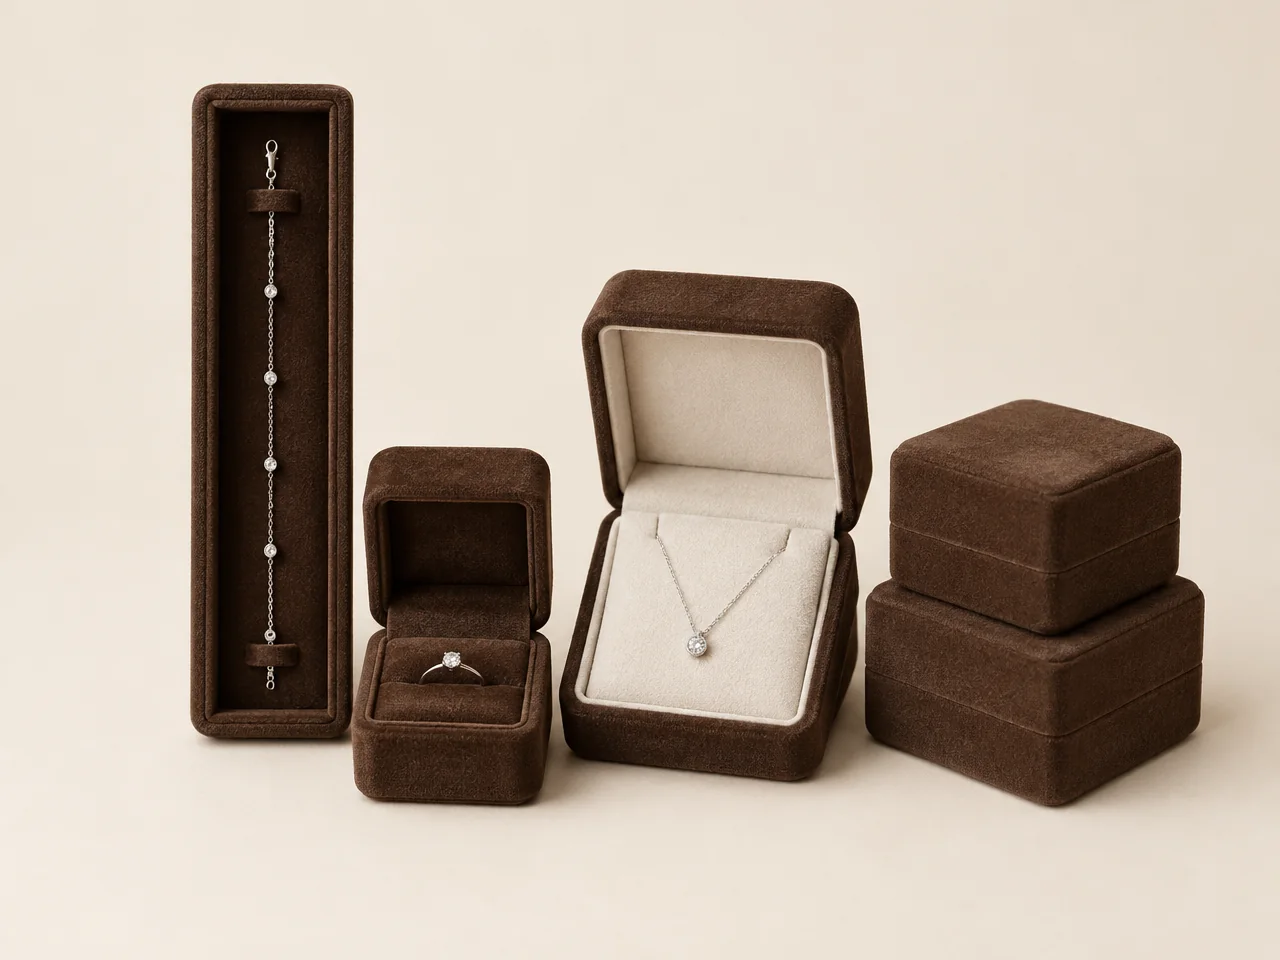
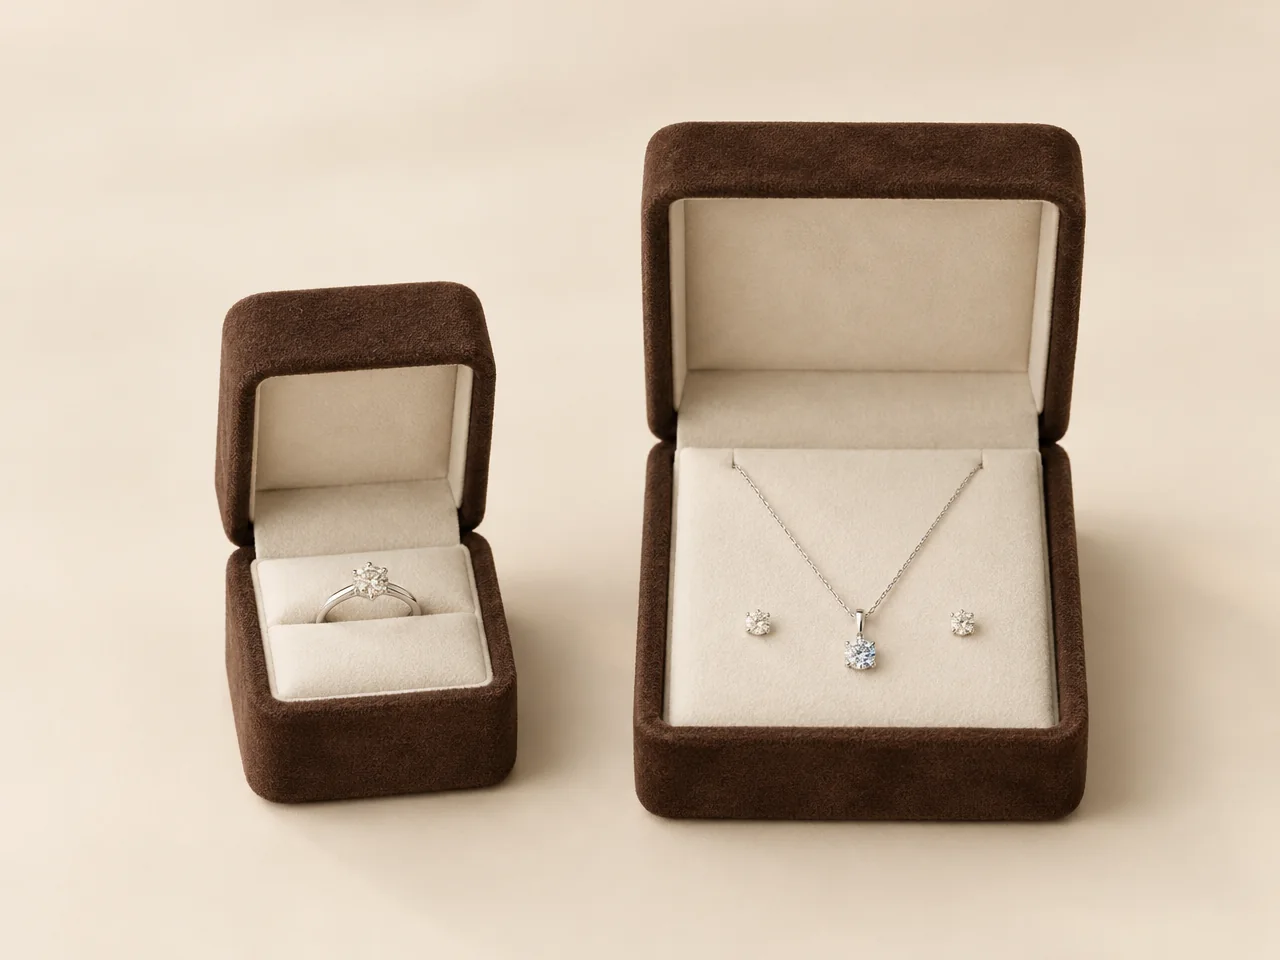
Carvieal: dois estojos de presente (anel; brincos, colares e pulseiras), com o modelo certo por peça e escolha no carrinho
Claude-Session: https://claude.ai/code/session_01XftsDHsx5FxPGT54fY2VHM

diff --git a/app/(loja)/presente/page.tsx b/app/(loja)/presente/page.tsx
@@ -2,41 +2,61 @@ import type { Metadata } from "next";
 import Link from "next/link";
 import Foto from "@/components/Foto";
 import BotaoEstojo from "@/components/BotaoEstojo";
-import { obterEstojo, estojoInfo } from "@/lib/presente";
+import { obterEstojos } from "@/lib/presente";
 import { kz } from "@/lib/formato";
 
 export const revalidate = 60;
 
 export const metadata: Metadata = {
   title: "Embalagem Especial para Presente",
-  description: "Estojo Carvieal para oferecer a tua peça em prata 925. Opção facultativa, adicionada à encomenda.",
+  description: "Estojos Carvieal para oferecer a tua peça em prata 925: um para anéis e outro para brincos, colares e pulseiras.",
   alternates: { canonical: "/presente" },
 };
 
 export default async function Presente() {
-  const e = await obterEstojo();
-  const info = estojoInfo(e);
+  const { anel, joias } = await obterEstojos();
+  const modelos = [
+    { e: anel, titulo: "Estojo para anel", texto: "Com encaixe acolchoado para um anel.", img: "/img/estojo-anel.webp" },
+    { e: joias, titulo: "Estojo para brincos, colares e pulseiras", texto: "Serve para brincos, colares e pulseiras.", img: "/img/estojo-joias.webp" },
+  ];
   return (
-    <div className="caixa grid gap-10 pb-24 pt-8 sm:pt-14 md:grid-cols-2 md:items-center md:gap-16">
-      <div className="relative aspect-[4/3] overflow-hidden bg-avela-pale">
-        <Foto src={info?.imagem || "/img/estojo.webp"} alt="Estojos Carvieal para presente" sizes="(min-width: 768px) 50vw, 100vw" priority />
-      </div>
-      <div className="max-w-md">
-        <h1 className="titulo text-[36px] sm:text-[48px]">Embalagem Especial para Presente</h1>
-        <div className="mt-6 space-y-4 text-[15px] leading-relaxed text-tinta/75">
-          <p>Para os momentos em que a peça é para alguém especial, podes juntar à encomenda um estojo em camurça, pensado para oferecer.</p>
-          <p>É uma opção facultativa: todas as encomendas continuam a ser enviadas na embalagem normal da Carvieal.</p>
-          <p>Podes escolher o estojo na página de cada peça, antes de a adicionares ao carrinho, ou diretamente no carrinho.</p>
+    <div className="pb-24">
+      <section className="caixa grid gap-10 pt-8 sm:pt-14 md:grid-cols-2 md:items-center md:gap-16">
+        <div className="relative aspect-[4/3] overflow-hidden bg-avela-pale">
+          <Foto src="/img/estojo.webp" alt="Estojos Carvieal para presente" sizes="(min-width: 768px) 50vw, 100vw" priority />
         </div>
-        {info ? (
-          <>
-            <p className="mt-8 font-display text-[28px] text-choco">+ {kz(info.preco)} <span className="text-[15px] text-tinta/55">por estojo</span></p>
-            <BotaoEstojo estojo={info} />
-          </>
-        ) : (
-          <p className="mt-8 text-[15px] text-tinta/60">De momento, os estojos para presente estão esgotados.</p>
-        )}
-        <Link href="/loja" className="link mt-6 inline-block text-[14px] text-choco">Descobrir a coleção</Link>
+        <div className="max-w-md">
+          <h1 className="titulo text-[36px] sm:text-[48px]">Embalagem Especial para Presente</h1>
+          <div className="mt-6 space-y-4 text-[15px] leading-relaxed text-tinta/75">
+            <p>Para os momentos em que a peça é para alguém especial, podes juntar à encomenda um estojo em camurça, pensado para oferecer.</p>
+            <p>É uma opção facultativa: todas as encomendas continuam a ser enviadas na embalagem normal da Carvieal.</p>
+            <p>Podes escolher o estojo na página de cada peça, antes de a adicionares ao carrinho, ou diretamente no carrinho.</p>
+          </div>
+        </div>
+      </section>
+
+      <section className="caixa mt-16 grid gap-10 sm:grid-cols-2 sm:gap-6 lg:max-w-4xl">
+        {modelos.map((m) => (
+          <div key={m.titulo}>
+            <div className="relative aspect-square overflow-hidden bg-avela-pale">
+              <Foto src={m.e?.imagem || m.img} alt={m.titulo} sizes="(min-width: 640px) 40vw, 100vw" />
+            </div>
+            <h2 className="mt-5 text-[15px] font-medium uppercase tracking-[.14em] text-tinta">{m.titulo}</h2>
+            <p className="mt-1 text-[14px] text-tinta/60">{m.texto}</p>
+            {m.e ? (
+              <>
+                <p className="mt-3 text-[16px] text-tinta">+ {kz(m.e.preco)}</p>
+                <BotaoEstojo estojo={m.e} />
+              </>
+            ) : (
+              <p className="mt-3 text-[14px] text-tinta/55">Esgotado de momento.</p>
+            )}
+          </div>
+        ))}
+      </section>
+
+      <div className="caixa mt-12">
+        <Link href="/loja" className="link text-[14px] text-choco">Descobrir a coleção</Link>
       </div>
     </div>
   );

diff --git a/components/CarrinhoGaveta.tsx b/components/CarrinhoGaveta.tsx
@@ -4,12 +4,13 @@ import { Minus, Plus, X } from "lucide-react";
 import { useCarrinho } from "@/lib/carrinho";
 import { kz } from "@/lib/formato";
 import Foto from "./Foto";
-import type { EstojoInfo } from "@/lib/presente";
+import type { Estojos } from "@/lib/presente";
+import SugestaoEstojo from "./SugestaoEstojo";
 
-export default function CarrinhoGaveta({ gratisAcima = 0, estojo = null }: { gratisAcima?: number; estojo?: EstojoInfo }) {
-  const { itens, aberto, fechar, mudarQtd, remover, subtotal, adicionar } = useCarrinho();
+export default function CarrinhoGaveta({ gratisAcima = 0, estojos = { anel: null, joias: null } }: { gratisAcima?: number; estojos?: Estojos }) {
+  const { itens, aberto, fechar, mudarQtd, remover, subtotal } = useCarrinho();
   if (!aberto) return null;
-  const sugerirEstojo = estojo && !itens.some((i) => i.produtoId === estojo.id);
+  const temEstojo = itens.some((i) => i.slug.startsWith("estojo-"));
 
   return (
     <div className="fixed inset-0 z-50" role="dialog" aria-modal="true" aria-label="Carrinho">
@@ -54,17 +55,7 @@ export default function CarrinhoGaveta({ gratisAcima = 0, estojo = null }: { gra
                 </li>
               ))}
             </ul>
-            {sugerirEstojo && (
-              <div className="mx-5 mb-4 flex items-center gap-3 border border-choco/15 bg-white p-3 sm:mx-7">
-                <span className="relative h-14 w-14 shrink-0 overflow-hidden bg-avela-pale"><Foto src={estojo.imagem} alt="" sizes="56px" /></span>
-                <div className="min-w-0 flex-1">
-                  <p className="text-[14px] leading-snug text-tinta">Vai oferecer? Adicionar estojo para presente</p>
-                  <p className="text-[13px] text-tinta/55">+ {kz(estojo.preco)}</p>
-                </div>
-                <button type="button" onClick={() => adicionar({ produtoId: estojo.id, slug: estojo.slug, nome: estojo.nome, imagem: estojo.imagem, preco: estojo.preco, opcoes: {}, stock: estojo.stock })}
-                  className="shrink-0 border border-choco px-3 py-2 text-[12px] font-medium uppercase tracking-[.12em] text-choco hover:bg-choco hover:text-marfim-claro">Adicionar</button>
-              </div>
-            )}
+            {!temEstojo && (estojos.anel || estojos.joias) && <SugestaoEstojo estojos={estojos} temAnel={itens.some((i) => /anel|anéis|aneis/i.test(i.nome + i.slug))} />}
             <div className="border-t border-choco/10 px-5 pb-[max(1.25rem,env(safe-area-inset-bottom))] pt-5 sm:px-7">
               <div className="flex items-baseline justify-between">
                 <span className="text-[15px]">Subtotal</span>

diff --git a/components/SugestaoEstojo.tsx b/components/SugestaoEstojo.tsx
@@ -1,0 +1,42 @@
+"use client";
+import { useState } from "react";
+import { useCarrinho } from "@/lib/carrinho";
+import { kz } from "@/lib/formato";
+import type { Estojos } from "@/lib/presente";
+import Foto from "./Foto";
+
+// No carrinho: «Vai oferecer?» com a escolha entre os dois estojos.
+export default function SugestaoEstojo({ estojos, temAnel }: { estojos: Estojos; temAnel: boolean }) {
+  const { adicionar } = useCarrinho();
+  const opcoes = [
+    estojos.anel && { chave: "anel", rotulo: "Anel", e: estojos.anel },
+    estojos.joias && { chave: "joias", rotulo: "Brincos, colares, pulseiras", e: estojos.joias },
+  ].filter(Boolean) as { chave: string; rotulo: string; e: NonNullable<Estojos["anel"]> }[];
+  const [esc, setEsc] = useState(temAnel && estojos.anel ? "anel" : opcoes[opcoes.length - 1].chave);
+  const atual = opcoes.find((o) => o.chave === esc) ?? opcoes[0];
+  const e = atual.e;
+
+  return (
+    <div className="mx-5 mb-4 border border-choco/15 bg-white p-3 sm:mx-7">
+      <div className="flex items-center gap-3">
+        <span className="relative h-14 w-14 shrink-0 overflow-hidden bg-avela-pale"><Foto src={e.imagem} alt="" sizes="56px" /></span>
+        <div className="min-w-0 flex-1">
+          <p className="text-[14px] leading-snug text-tinta">Vai oferecer? Adicionar estojo para presente</p>
+          <p className="text-[13px] text-tinta/55">+ {kz(e.preco)}</p>
+        </div>
+        <button type="button" onClick={() => adicionar({ produtoId: e.id, slug: e.slug, nome: e.nome, imagem: e.imagem, preco: e.preco, opcoes: {}, stock: e.stock })}
+          className="shrink-0 border border-choco px-3 py-2 text-[12px] font-medium uppercase tracking-[.12em] text-choco hover:bg-choco hover:text-marfim-claro">Adicionar</button>
+      </div>
+      {opcoes.length > 1 && (
+        <div className="mt-3 grid grid-cols-2 gap-1.5" role="radiogroup" aria-label="Modelo do estojo">
+          {opcoes.map((o) => (
+            <button key={o.chave} type="button" role="radio" aria-checked={esc === o.chave} onClick={() => setEsc(o.chave)}
+              className={`border px-2 py-2 text-[12px] leading-tight transition-colors ${esc === o.chave ? "border-choco bg-choco text-marfim-claro" : "border-choco/20 text-tinta/70"}`}>
+              {o.rotulo}
+            </button>
+          ))}
+        </div>
+      )}
+    </div>
+  );
+}

diff --git a/lib/presente.ts b/lib/presente.ts
@@ -1,19 +1,27 @@
-// Embalagem especial para presente (estojo). É um produto normal da loja com o slug
-// abaixo: o preço, a foto e o stock mudam-se no painel, em Produtos.
-// Não aparece no catálogo; é oferecido na página de cada peça, no carrinho e em /presente.
+// Embalagem especial para presente: dois estojos, cada um é um produto normal da loja
+// (slugs abaixo). Preço, foto e stock mudam-se no painel, em Produtos.
+// Não aparecem no catálogo; são oferecidos na página de cada peça, no carrinho e em /presente.
 import { obterProduto } from "./loja";
 import type { Produto } from "./tipos";
 
-export const ESTOJO_SLUG = "estojo-presente";
+export const ESTOJO_ANEL = "estojo-anel"; // para anéis
+export const ESTOJO_JOIAS = "estojo-joias"; // para brincos, colares e pulseiras
+export const SLUGS_ESTOJO = [ESTOJO_ANEL, ESTOJO_JOIAS];
 
-export async function obterEstojo(): Promise<Produto | null> {
-  const p = await obterProduto(ESTOJO_SLUG);
-  return p && p.stock > 0 ? p : null;
+/** Dados mínimos de um estojo que os componentes do navegador precisam. */
+export type EstojoInfo = { id: string; slug: string; nome: string; preco: number; imagem: string; stock: number } | null;
+export type Estojos = { anel: EstojoInfo; joias: EstojoInfo };
+
+function info(p: Produto | null, img: string): EstojoInfo {
+  return p && p.stock > 0 ? { id: p.id, slug: p.slug, nome: p.nome, preco: p.preco, imagem: p.imagens[0] || img, stock: p.stock } : null;
 }
 
-/** Dados mínimos do estojo que os componentes do navegador precisam. */
-export type EstojoInfo = { id: string; slug: string; nome: string; preco: number; imagem: string; stock: number } | null;
+export async function obterEstojos(): Promise<Estojos> {
+  const [a, j] = await Promise.all([obterProduto(ESTOJO_ANEL), obterProduto(ESTOJO_JOIAS)]);
+  return { anel: info(a, "/img/estojo-anel.webp"), joias: info(j, "/img/estojo-joias.webp") };
+}
 
-export function estojoInfo(p: Produto | null): EstojoInfo {
-  return p ? { id: p.id, slug: p.slug, nome: p.nome, preco: p.preco, imagem: p.imagens[0] || "/img/estojo.webp", stock: p.stock } : null;
+/** Estojo certo para uma peça: anéis → estojo de anel; o resto → estojo de joias. */
+export function estojoPara(categoriaSlug: string | undefined, e: Estojos): EstojoInfo {
+  return categoriaSlug === "aneis" ? e.anel : e.joias;
 }

diff --git a/app/(loja)/produto/[slug]/page.tsx b/app/(loja)/produto/[slug]/page.tsx
@@ -1,7 +1,7 @@
 import type { Metadata } from "next";
 import Link from "next/link";
 import { notFound, redirect } from "next/navigation";
-import { ESTOJO_SLUG, obterEstojo, estojoInfo } from "@/lib/presente";
+import { SLUGS_ESTOJO, obterEstojos, estojoPara } from "@/lib/presente";
 import { listarCategorias, listarProdutos, obterProduto } from "@/lib/loja";
 import { obterConteudo } from "@/lib/conteudo";
 import { kz } from "@/lib/formato";
@@ -31,9 +31,9 @@ export async function generateMetadata({ params }: Props): Promise<Metadata> {
 
 export default async function PaginaProduto({ params }: Props) {
   const p = await obterProduto(params.slug);
-  if (params.slug === ESTOJO_SLUG) redirect("/presente");
+  if (SLUGS_ESTOJO.includes(params.slug)) redirect("/presente");
   if (!p) notFound();
-  const [categorias, c, avaliacoes, estojo] = await Promise.all([listarCategorias(), obterConteudo(), avaliacoesPublicas(p.id), obterEstojo()]);
+  const [categorias, c, avaliacoes, estojo] = await Promise.all([listarCategorias(), obterConteudo(), avaliacoesPublicas(p.id), obterEstojos()]);
   const cat = categorias.find((k) => k.id === p.categoria_id);
   const relacionados = (await listarProdutos({ categoriaId: p.categoria_id ?? undefined, limite: 5 })).filter((x) => x.id !== p.id).slice(0, 4);
   const detalhes = p.detalhes.split("\n").map((l) => l.trim()).filter(Boolean);
@@ -77,7 +77,7 @@ export default async function PaginaProduto({ params }: Props) {
               {kz(p.preco)}
             </p>
             {p.descricao && <p className="mt-5 max-w-prose text-[15px] leading-relaxed text-tinta/75">{p.descricao}</p>}
-            <Comprar p={p} estojo={estojoInfo(estojo)} />
+            <Comprar p={p} estojo={estojoPara(cat?.slug, estojo)} />
             <div className="mt-10 divide-y divide-choco/15 border-y border-choco/15">
               {blocos.map(([t, conteudo], i) => (
                 <details key={t} className="group py-4" open={i === 0}>

diff --git a/components/OpcaoEstojo.tsx b/components/OpcaoEstojo.tsx
@@ -11,10 +11,10 @@ export default function OpcaoEstojo({ estojo, marcado, mudar }: { estojo: NonNul
     <label className={`flex cursor-pointer items-center gap-4 border p-3 pr-4 transition-colors ${marcado ? "border-choco bg-avela-pale/50" : "border-choco/20 hover:border-choco/50"}`}>
       <input type="checkbox" className="peer sr-only" checked={marcado} onChange={(e) => mudar(e.target.checked)} />
       <span className="relative h-16 w-16 shrink-0 overflow-hidden bg-avela-pale">
-        <Image src={estojo.imagem} alt="Estojo para presente Carvieal" fill sizes="64px" className="object-cover" />
+        <Image src={estojo.imagem} alt={estojo.nome} fill sizes="64px" className="object-cover" />
       </span>
       <span className="min-w-0 flex-1">
-        <span className="block text-[14px] text-tinta">Adicionar estojo para presente</span>
+        <span className="block text-[14px] text-tinta">Adicionar {estojo.nome.charAt(0).toLowerCase() + estojo.nome.slice(1)}</span>
         <span className="mt-0.5 block text-[13px] text-tinta/60">+ {kz(estojo.preco)} · <Link href="/presente" className="link" onClick={(e) => e.stopPropagation()}>ver estojo</Link></span>
       </span>
       <span aria-hidden className={`grid h-6 w-6 shrink-0 place-items-center border transition-colors peer-focus-visible:ring-2 peer-focus-visible:ring-choco/40 ${marcado ? "border-choco bg-choco text-marfim-claro" : "border-choco/40"}`}>

diff --git a/app/(loja)/layout.tsx b/app/(loja)/layout.tsx
@@ -3,19 +3,19 @@ import { listarCategorias } from "@/lib/loja";
 import Cabecalho from "@/components/Cabecalho";
 import CarrinhoGaveta from "@/components/CarrinhoGaveta";
 import Rodape from "@/components/Rodape";
-import { obterEstojo, estojoInfo } from "@/lib/presente";
+import { obterEstojos } from "@/lib/presente";
 
 export const revalidate = 60;
 
 export default async function LojaLayout({ children }: { children: React.ReactNode }) {
-  const [c, categorias, estojo] = await Promise.all([obterConteudo(), listarCategorias(), obterEstojo()]);
+  const [c, categorias, estojo] = await Promise.all([obterConteudo(), listarCategorias(), obterEstojos()]);
   const cats = categorias.map((k) => ({ slug: k.slug, nome: k.nome }));
   return (
     <>
       <Cabecalho categorias={cats} aviso={c.avisoTopo} />
       <main id="conteudo">{children}</main>
       <Rodape c={c} categorias={cats} />
-      <CarrinhoGaveta gratisAcima={c.entregaGratisAcima} estojo={estojoInfo(estojo)} />
+      <CarrinhoGaveta gratisAcima={c.entregaGratisAcima} estojos={estojo} />
     </>
   );
 }

diff --git a/lib/loja.ts b/lib/loja.ts
@@ -15,8 +15,8 @@ export async function listarCategorias(): Promise<Categoria[]> {
 
 export async function listarProdutos(opts: { categoriaId?: string; destaque?: boolean; novidade?: boolean; busca?: string; limite?: number } = {}): Promise<Produto[]> {
   if (!supabaseConfigurado) return [];
-  // O estojo de presente não aparece no catálogo (ver lib/presente.ts)
-  let q = supabase.from("carvieal_produtos").select("*").eq("ativo", true).neq("slug", "estojo-presente");
+  // Os estojos de presente não aparecem no catálogo (ver lib/presente.ts)
+  let q = supabase.from("carvieal_produtos").select("*").eq("ativo", true).not("slug", "like", "estojo-%");
   if (opts.categoriaId) q = q.eq("categoria_id", opts.categoriaId);
   if (opts.destaque) q = q.eq("destaque", true);
   if (opts.novidade) q = q.eq("novidade", true);

diff --git a/components/BotaoEstojo.tsx b/components/BotaoEstojo.tsx
@@ -6,7 +6,7 @@ export default function BotaoEstojo({ estojo }: { estojo: NonNullable<EstojoInfo
   const { adicionar } = useCarrinho();
   return (
     <button type="button" onClick={() => adicionar({ produtoId: estojo.id, slug: estojo.slug, nome: estojo.nome, imagem: estojo.imagem, preco: estojo.preco, opcoes: {}, stock: estojo.stock })}
-      className="btn-choco mt-6 w-full uppercase tracking-[.14em] text-[13px]">
+      className="btn-choco mt-4 w-full uppercase tracking-[.14em] text-[13px]">
       Adicionar estojo ao carrinho
     </button>
   );

diff --git a/LEIA-ME.md b/LEIA-ME.md
@@ -8,7 +8,7 @@ Loja: catálogo, carrinho, finalização com escolha de pagamento, rastreio da e
 2. Authentication → Users → *Add user* com o email da Carla (marcar *Auto Confirm*). Depois editar o email em `supabase/002_ligar_gerente.sql` e correr.
 3. **Avaliações e lista de emails:** correr `supabase/004_avaliacoes.sql` (uma vez).
 4. **Entrega grátis automática:** correr `supabase/005_entrega_gratis.sql` (uma vez). O valor mínimo muda-se no painel, em Definições › Formas de entrega.
-5. **Embalagem especial para presente:** correr `supabase/006_estojo_presente.sql` (uma vez). O estojo fica em Produtos no painel («Embalagem especial para presente»): aí mudam-se o preço, a foto e o stock. Não aparece no catálogo; é oferecido na página de cada peça, no carrinho e em /presente. Para deixar de o oferecer, desativar o produto ou pôr o stock a 0.
+5. **Embalagem especial para presente:** correr `supabase/006_estojo_presente.sql` (uma vez). Cria 2 estojos em Produtos no painel: «Estojo de presente para anel» e «Estojo de presente para brincos, colares e pulseiras» — aí mudam-se o preço, a foto e o stock. Não aparecem no catálogo; são oferecidos na página de cada peça (anéis → estojo de anel; o resto → o outro), no carrinho e em /presente. Para deixar de oferecer um, desativá-lo ou pôr o stock a 0.
 4. Opcional: `supabase/003_produtos_exemplo.sql` para ver a loja com 4 peças de exemplo (apagar depois no painel).
 5. **Vercel** → *Add New → Project* → importar `carvieal` → em *Environment Variables* pôr:
    - `NEXT_PUBLIC_SUPABASE_URL` (o mesmo dos outros projectos)
